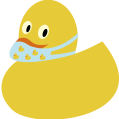
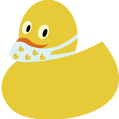
typo readme (fix  #23)

Changed region(s): [[0.0756, 0.2773, 0.6555, 0.5294]]

diff --git a/duckpond/Facemask.tex b/duckpond/Facemask.tex
@@ -8,7 +8,7 @@
 	\duck[]
 
   \begin{pgfinterruptboundingbox}
-    \fill[cyan!20!white]  (1.4051,1.5586) .. controls (1.1370,1.3225) and (0.8775,1.2365) .. (0.5844,1.3462) .. controls (0.5190,1.3848) and (0.4601,1.4391) .. (0.3414,1.4100) .. controls (-0.1044,0.8610) and (1.0760,1.1140) .. (1.3547,1.2073) -- (1.3698,1.2679) .. controls (1.2783,1.2261) and (1.1035,1.2035) .. (0.9324,1.1895) -- (0.9600,1.2509) .. controls (1.1068,1.2809) and (1.2985,1.3700) .. (1.4071,1.4930) -- cycle;
+    \fill[cyan!10!white]  (1.4051,1.5586) .. controls (1.1370,1.3225) and (0.8775,1.2365) .. (0.5844,1.3462) .. controls (0.5190,1.3848) and (0.4601,1.4391) .. (0.3414,1.4100) .. controls (-0.1044,0.8610) and (1.0760,1.1140) .. (1.3547,1.2073) -- (1.3698,1.2679) .. controls (1.2783,1.2261) and (1.1035,1.2035) .. (0.9324,1.1895) -- (0.9600,1.2509) .. controls (1.1068,1.2809) and (1.2985,1.3700) .. (1.4071,1.4930) -- cycle;
   \end{pgfinterruptboundingbox}
   
   \duck[scale=0.05, shift={(6,22.3)}]

diff --git a/README.md b/README.md
@@ -131,8 +131,7 @@ In case you would like to share some of your ducks with the community, I would b
 <a href="./duckpond/Brazil.tex"><img src="./duckpond/Brazil.png" alt="Brazil Duck" title="Brazil Duck" height="64"></a>
 <a href="./duckpond/FrenchDuck.tex"><img src="./duckpond/FrenchDuck.svg" alt="French Duck" title="French Duck" height="64"></a>
 <a href="./duckpond/YankeeDuck.tex"><img src="./duckpond/YankeeDuck.png" alt="Yankee Duck" title="Yankee Duck" height="64"></a>
-<a href="./duckpond/FaceMask"><img src="./duckpond/FaceMask.svg" alt="Face Mask Duck" title="Face Mask Duck" height="64"></a>
-
+<a href="./duckpond/Facemask.tex"><img src="./duckpond/Facemask.svg" alt="Face Mask Duck" title="Face Mask Duck" height="64"></a>
 <!--<a href="./duckpond/Chess.tex"><img src="./duckpond/Chess.svg" alt="Chess" title="Chess" height="128"></a>
 <a href="./duckpond/Vikings.tex"><img src="./duckpond/Vikings.svg" alt="Vikings" title="Vikings" height="128"></a>
 <a href="./duckpond/GreatWall.tex"><img src="./duckpond/GreatWall.png" alt="Great Wall" title="Great Wall" height="128"></a>
